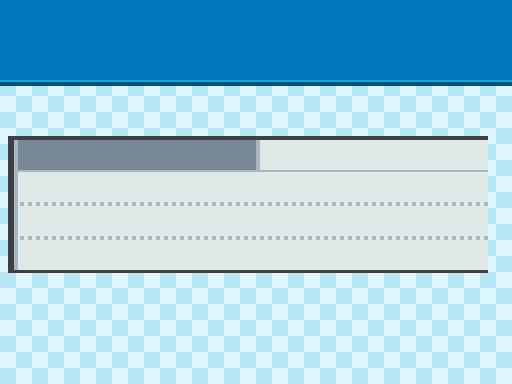
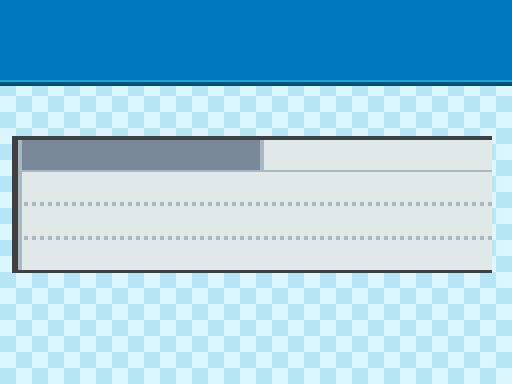
Pokemon Trivia minigame pt. 7

Changed region(s): [[0.0, 0.3438, 0.9688, 0.7188], [0.5, 0.3438, 0.5312, 0.4375], [0.9375, 0.375, 0.9688, 0.4062]]

diff --git a/Plugins/Chasm Other/Minigames/PokemonTrivia.rb b/Plugins/Chasm Other/Minigames/PokemonTrivia.rb
@@ -6,6 +6,7 @@ TRIVIA_QUESTION_TYPES = [:SILHOUETTE, :CHARACTERISTICS, :SIGNATURE_ABILITY, :SIG
 TRIVIA_LEVEL_MOVES_AMOUNT = 4 # How many level moves to show for that type of trivia question
 
 class PokemonTriviaScene
+
     def update
         pbUpdateSpriteHash(@sprites)
     end
@@ -32,26 +33,45 @@ class PokemonTriviaScene
         @clueOverlay = @sprites["clues"].bitmap
         pbSetSystemFont(@clueOverlay)
 
+        # Create overlay for move info (shows move's BP, description)
+        moveInfoDisplayFileName = addLanguageSuffix(("Graphics/Pictures/move_info_display_3x3"))
+        moveInfoDisplayFileName += "_dark" if darkMode?
+        @moveInfoDisplayBitmap  = AnimatedBitmap.new(moveInfoDisplayFileName)
+        moveInfoDisplay = SpriteWrapper.new(@viewport)
+        moveInfoDisplay.bitmap = @moveInfoDisplayBitmap.bitmap
+        moveInfoDisplay.x      = 0
+        moveInfoDisplay.y      = Graphics.height - @moveInfoDisplayBitmap.height
+        @sprites["move_info_display"] = moveInfoDisplay
+        # Create overlay for selected move's extra info (shows move's BP, description)
+        moveInfoSprite = BitmapSprite.new(Graphics.width, @moveInfoDisplayBitmap.height, @viewport)
+        moveInfoSprite.y = moveInfoDisplay.y
+        pbSetNarrowFont(moveInfoSprite.bitmap)
+        @sprites["move_info_overlay"] = moveInfoSprite
+        @moveInfoOverlay = moveInfoSprite.bitmap
+
         @typebitmap = AnimatedBitmap.new(addLanguageSuffix(("Graphics/Pictures/Pokedex/icon_types")))
 
         @triviaQuestions = triviaQuestions
         @difficulty = difficulty
 
-        update
-        pbFadeInAndShow(@sprites)
+        wipeQuestionGraphics
+
+        pbMessage(_INTL("Welcome to Pokemon Trivia, tier {1}!",@difficulty))
+        pbMessage(_INTL("Answer {1} questions correctly to earn a prize!",@triviaQuestions.length))
     end
 
     def pbMain
         nextQuestionType = nil
         nextQuestionSpecies = nil
 
-        pbMessage(_INTL("Welcome to Pokemon Trivia, difficulty level {1}!",@difficulty))
+        visibleSprites = nil
+        @triviaQuestions.each_with_index do |nextQuestion, index|
+            pbMessage(_INTL("Question {1}...", index + 1))
 
-        @triviaQuestions.each do |nextQuestion|
             nextQuestionType, nextQuestionSpecies = nextQuestion
             presentQuestion(nextQuestionType, nextQuestionSpecies)
 
-            pbWait(20)
+            pbFadeInAndShow(@sprites, visibleSprites)
 
             loop do
                 Graphics.update
@@ -59,21 +79,29 @@ class PokemonTriviaScene
                 update
 
                 if Input.trigger?(Input::USE)
+                    pbPlayDecisionSE
                     result = checkAnswer(nextQuestionType, nextQuestionSpecies)
                     next if result.nil?
                     return false unless result
                     break
                 end
             end
+
+            wipeQuestionGraphics
+            visibleSprites = pbFadeOutAndHide(@sprites)
         end
 
         return true
     end
 
-    def presentQuestion(nextQuestionType, nextQuestionSpecies)
+    def wipeQuestionGraphics
         @clueOverlay.clear
+        @moveInfoOverlay.clear
         @sprites["species_silhoette"].visible = false
+        @sprites["move_info_display"].visible = false
+    end
 
+    def presentQuestion(nextQuestionType, nextQuestionSpecies)
         case nextQuestionType
         when :SILHOUETTE
             presentSilhoetteQuestion(nextQuestionSpecies)
@@ -92,7 +120,8 @@ class PokemonTriviaScene
         base   = MessageConfig.pbDefaultTextMainColor
         shadow = MessageConfig.pbDefaultTextShadowColor
         @questionTextOverlay.clear
-        drawTextEx(@questionTextOverlay, 16, 16, Graphics.width-32, 2, text, base, shadow)
+        sideBuffer = 24
+        drawTextEx(@questionTextOverlay, sideBuffer, 8, Graphics.width - sideBuffer * 2, 2, text, base, shadow)
     end
 
     def presentSilhoetteQuestion(questionSpecies)
@@ -171,7 +200,7 @@ class PokemonTriviaScene
         species_data = GameData::Species.get(questionSpecies)
 
         abilityTextX = 30
-        abilityTextY = 52
+        abilityTextY = 54
 
         chosenAbility = species_data.signature_abilities.sample
         chosenAbilityData = GameData::Ability.get(chosenAbility)
@@ -185,10 +214,25 @@ class PokemonTriviaScene
     end
 
     def presentSignatureMoveQuestion(questionSpecies)
+        @sprites["bg"].setBitmap("Graphics/Pictures/Trivia/triviabg_move")
+                base   = MessageConfig.pbDefaultTextMainColor
+        shadow = MessageConfig.pbDefaultTextShadowColor
+
+        signatureMove = GameData::Species.get(questionSpecies).signature_moves.sample
+        signatureMoveData = GameData::Move.get(signatureMove)
+
+        moveTextX = 30
+        moveTextY = 54
+
+        moveNameText = "<outln2>" + signatureMoveData.name + "</outln2>"
+        drawFormattedTextEx(@clueOverlay, moveTextX, moveTextY, 600, moveNameText, SIGNATURE_COLOR_LIGHTER, darkMode? ? shadow : base)
+        writeMoveInfoToInfoOverlay3x3(@moveInfoOverlay, signatureMove)
+        @sprites["move_info_display"].visible = true
+
         setQuestionText(_INTL("This Signature Move belongs to which fully evolved species?"))
     end
 
-    def presentSignatureMoveQuestion(questionSpecies)
+    def presentLevelMovesQuestion(questionSpecies)
         setQuestionText(_INTL("Which fully evolved species learns these moves at these levels?"))
     end
 
@@ -246,6 +290,7 @@ class PokemonTriviaScene
         pbDisposeSpriteHash(@sprites)
         @viewport.dispose
         @typebitmap.dispose
+        @moveInfoDisplayBitmap.dispose
     end
 end
 
@@ -356,20 +401,19 @@ end
 
 def triviaMachine(difficulty = 1)
     return unless playerFacingNorth? # Player has to be facing the screen
-    if getMySwitch("A") && false # TO DO: Remove this line
-        pbMessage(_INTL("Thank you for playing Pokemon Trivia!"))
+    victorious = false
+    pbFadeOutIn do
+        scene = PokemonTriviaScene.new
+        screen = PokemonTrivia.new(scene)
+        victorious = screen.pbStartScreen(difficulty)
+    end
+    if victorious
+        pbMessage(_INTL("Congratulations! You've earned a prize!"))
+        pbMEPlay("Slots win")
+        candyLevel = TRIVIA_CANDY_LEVELS_BY_DIFFICULTY[difficulty-1]
+        receiveCandyBatch(candyLevel,TRIVIA_CANDY_MULTIPLIER)
+        setMySwitch('A')
     else
-        pbFadeOutIn do
-            scene = PokemonTriviaScene.new
-            screen = PokemonTrivia.new(scene)
-            victorious = screen.pbStartScreen(difficulty)
-            if victorious
-                candyLevel = TRIVIA_CANDY_LEVELS_BY_DIFFICULTY[difficulty-1]
-                receiveCandyBatch(candyLevel,TRIVIA_CANDY_MULTIPLIER)
-                setMySwitch('A')
-            else
-                pbMessage(_INTL("Feel free to try again!"))
-            end
-        end
+        pbMessage(_INTL("Better luck next time..."))
     end
 end

diff --git a/Plugins/Chasm Graphics and UI/Menus/MoveInfo.rb b/Plugins/Chasm Graphics and UI/Menus/MoveInfo.rb
@@ -14,7 +14,8 @@ module MoveInfoDisplay
    ]
 
     def writeMoveInfoToInfoOverlay3x3(overlay,move,skipTutorial = false)
-        moveData = GameData::Move.get(move.id)
+        moveID = move.is_a?(Symbol) ? move : move.id
+        moveData = GameData::Move.get(moveID)
 
         base   = darkMode? ? Color.new(248, 248, 248) : MessageConfig::DARK_TEXT_MAIN_COLOR
         shadow = darkMode? ? Color.new(104, 104, 104) : MessageConfig::DARK_TEXT_SHADOW_COLOR
@@ -87,9 +88,13 @@ module MoveInfoDisplay
         end
         # PP
         if moveData.total_pp > 0
-          ppFraction = [(4.0*move.pp/move.total_pp).ceil,3].min
-          color_map = darkMode? ? PP_COLORS_DARK : PP_COLORS
-          textpos.push([_INTL("{1}/{2}",move.pp,move.total_pp),moveInfoColumn2ValueX, 32, 2, color_map[ppFraction*2], color_map[ppFraction*2+1]])
+          if move.is_a?(PokeBattle_Move)
+            ppFraction = [(4.0*move.pp/move.total_pp).ceil,3].min
+            color_map = darkMode? ? PP_COLORS_DARK : PP_COLORS
+            textpos.push([_INTL("{1}/{2}",move.pp,move.total_pp),moveInfoColumn2ValueX, 32, 2, color_map[ppFraction*2], color_map[ppFraction*2+1]])
+          else
+            textpos.push([_INTL("{1}",moveData.total_pp),moveInfoColumn2ValueX, 32, 2, base, shadow])
+          end
         else
           textpos.push(["---", moveInfoColumn2ValueX, 32, 2, faded_base, shadow])
         end
@@ -99,7 +104,7 @@ module MoveInfoDisplay
       
         # Column 3
         # Priority
-        textpos.push([moveData.priorityLabel,moveInfoColumn3ValueX + 6, 0, 2, move.priority != 0 ? base : faded_base, shadow])
+        textpos.push([moveData.priorityLabel,moveInfoColumn3ValueX + 6, 0, 2, moveData.priority != 0 ? base : faded_base, shadow])
         # Targeting
         targetingData = GameData::Target.get(moveData.target)
         textpos.push([targetingData.get_targeting_label,moveInfoColumn3LabelX + 4, 64, 0, base, shadow])
@@ -144,9 +149,11 @@ module MoveInfoDisplay
     end
 
     def writeMoveInfoToInfoOverlayBackwardsL(overlay,move,drawName=true)
+      moveID = move.is_a?(Symbol) ? move : move.id
+      moveData = GameData::Move.get(moveID)
+
       # Extra move info display
       overlay.clear
-      moveData = GameData::Move.get(move)
 
       # Prepare values
       base       = MessageConfig::LIGHT_TEXT_MAIN_COLOR # This is the same in light and dark mode

diff --git a/Plugins/Chasm Graphics and UI/Objects and windows/MessageConfig.rb b/Plugins/Chasm Graphics and UI/Objects and windows/MessageConfig.rb
@@ -692,9 +692,9 @@ def pbFadeOutInWithMusic(zViewport = 99_999)
     end
 end
 
-def pbFadeOutAndHide(sprites)
+def pbFadeOutAndHide(sprites, duration: 0.4)
     visiblesprites = {}
-    numFrames = (Graphics.frame_rate * 0.4).floor
+    numFrames = (Graphics.frame_rate * duration).floor
     alphaDiff = (255.0 / numFrames).ceil
     pbDeactivateWindows(sprites) do
         for j in 0..numFrames
